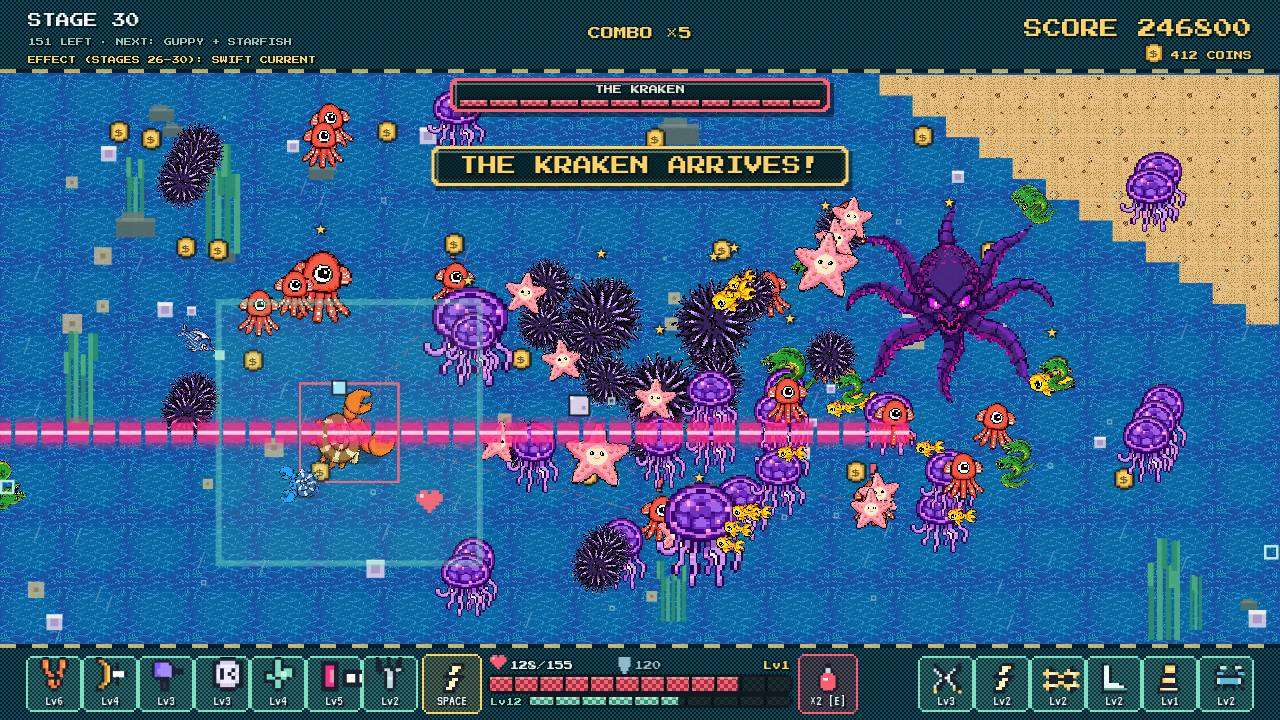
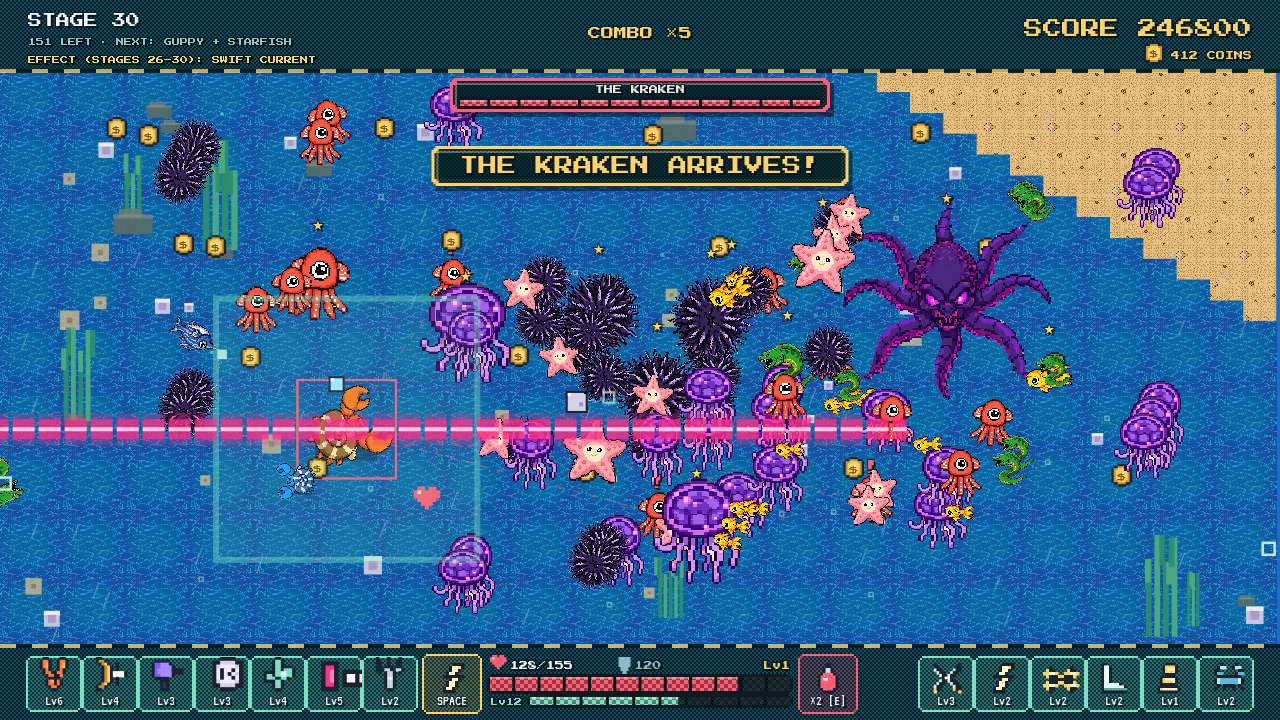
v1.2: archerfish r=13 -> r=16 (same size as jelly), re-capture kraken cover

diff --git a/game/src/config.js b/game/src/config.js
@@ -68,7 +68,7 @@ export const ENEMIES = {
   starfish: { hp: 32, speed: 72,  dmg: 6,  r: 15, score: 20, coins: 2, xp: 3, color: '#ff8fb0', dark: '#d65d7e' },
   eel:      { hp: 18, speed: 152, dmg: 8,  r: 12, score: 30, coins: 2, xp: 5, color: '#7fe0c3', dark: '#3fae8c' },
   squid:     { hp: 28, speed: 176, dmg: 8,  r: 14, score: 40, coins: 2, xp: 5, color: '#ff8a5c', dark: '#c75a30' },
-  archer:   { hp: 20, speed: 95,  dmg: 3,  r: 13, score: 35, coins: 2, xp: 6, color: '#7fd4e0', dark: '#3a8ea8' },
+  archer:   { hp: 20, speed: 95,  dmg: 3,  r: 16, score: 35, coins: 2, xp: 6, color: '#7fd4e0', dark: '#3a8ea8' },
   mini:     { hp: 8,  speed: 118, dmg: 5,  r: 8,  score: 5,  coins: 1, xp: 2, color: '#ff8fb0', dark: '#d65d7e' },
 };
 export const BOSS_XP = 40;
